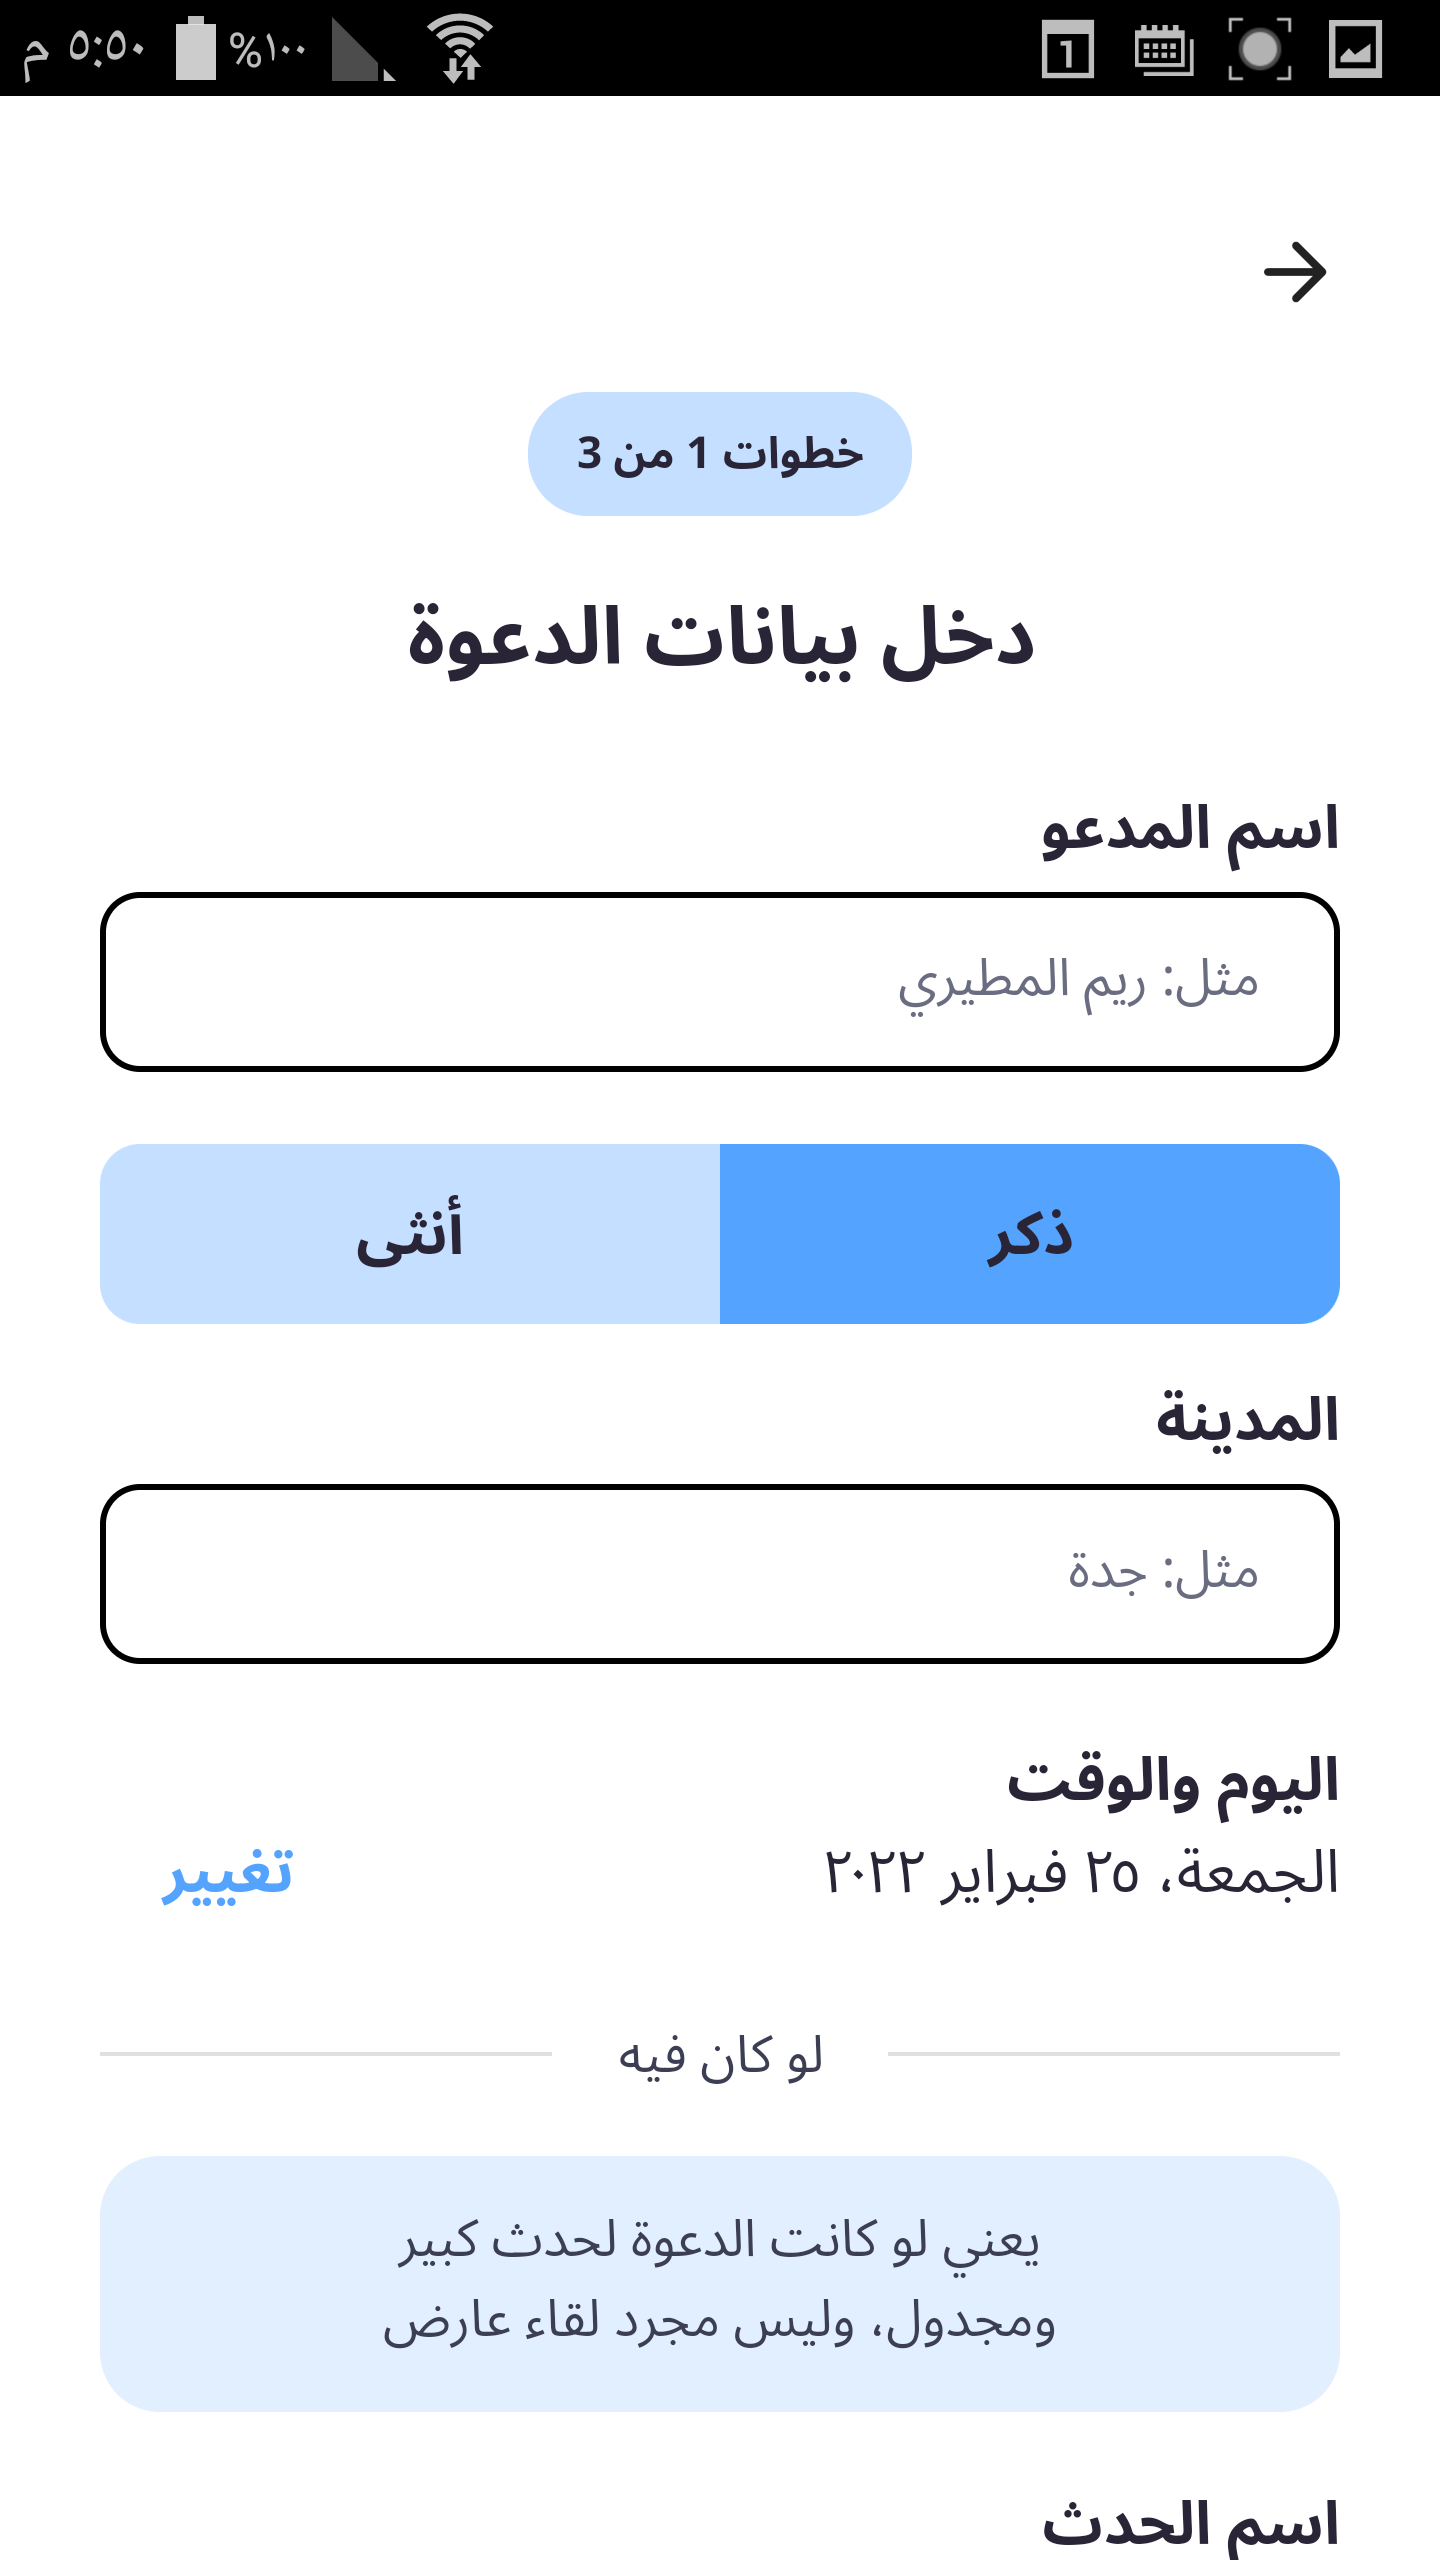
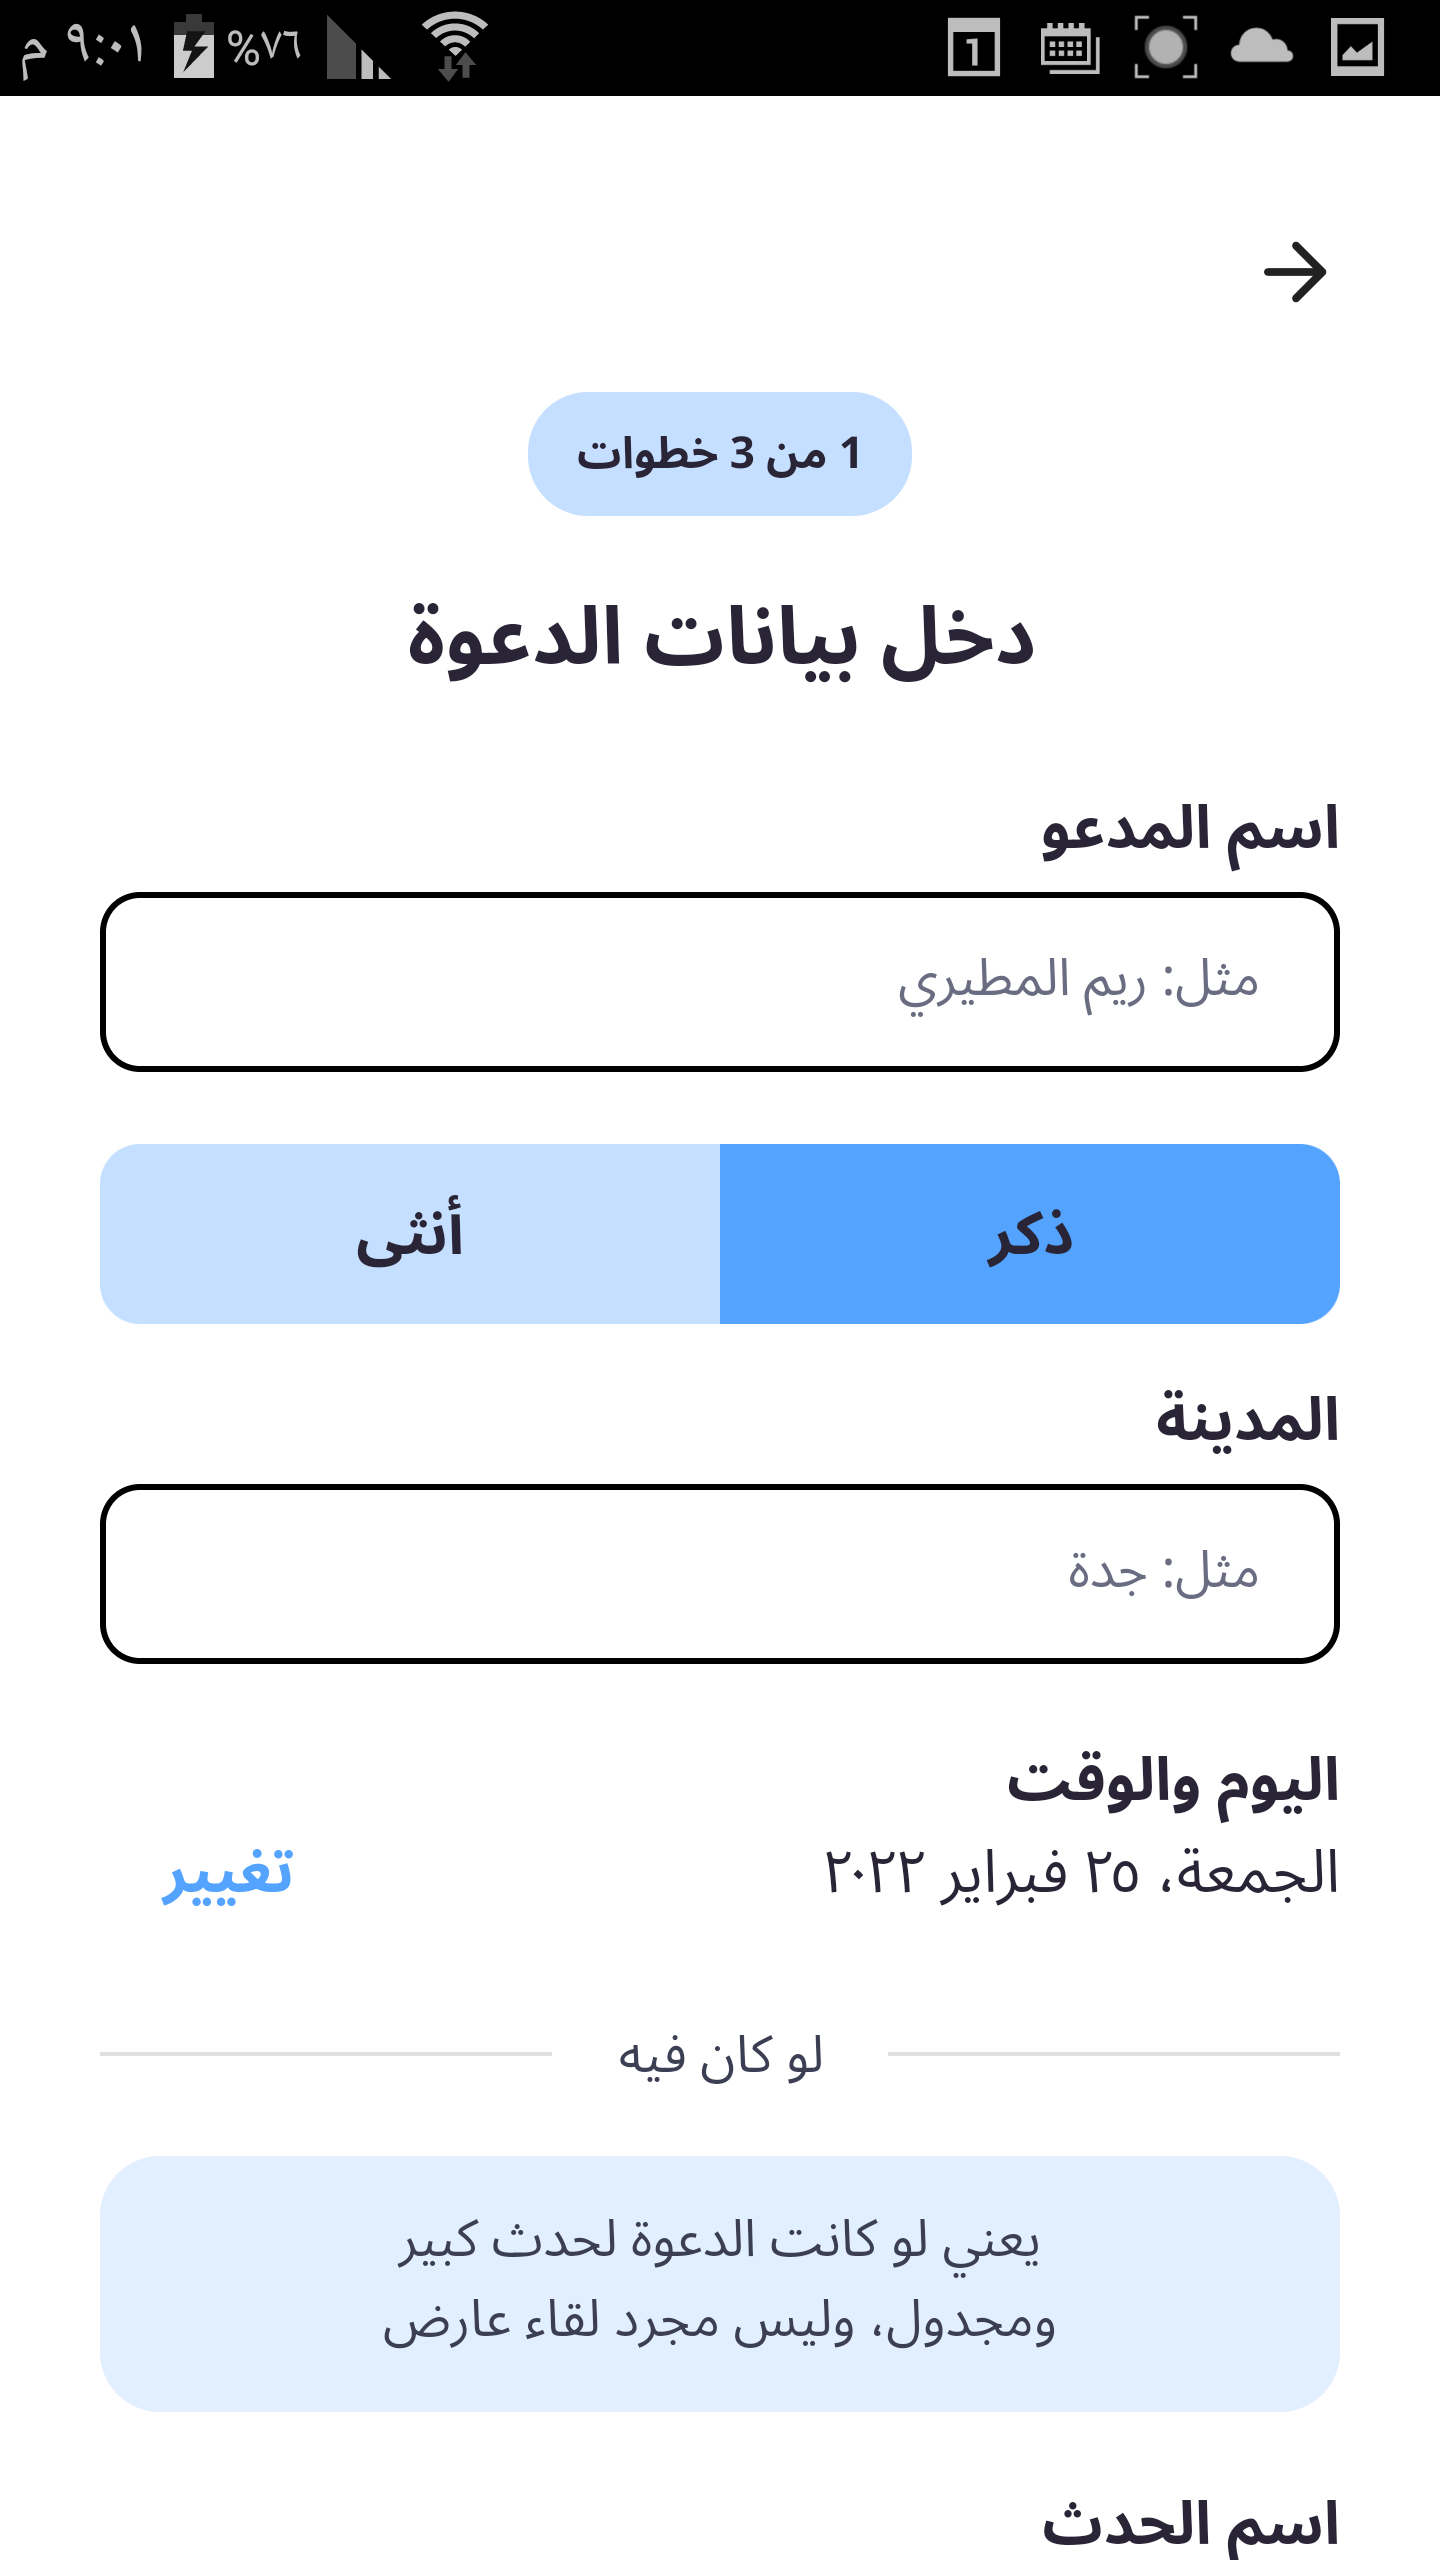
adding screenshots for all templates

diff --git a/lib/pages/preview_page.dart b/lib/pages/preview_page.dart
@@ -4,6 +4,10 @@ import 'package:invitation_generator/controllers/invitation_controller.dart';
 import 'package:invitation_generator/localization/localization_constants.dart';
 import 'package:invitation_generator/pages/form_page.dart';
 import 'package:invitation_generator/pages/home_page.dart';
+import 'package:invitation_generator/shared/app_colors.dart';
+import 'package:invitation_generator/shared/box_dec.dart';
+import 'package:invitation_generator/shared/constants.dart';
+import 'package:invitation_generator/shared/text_styles.dart';
 import 'package:invitation_generator/shared/ui_helpers.dart';
 import 'package:invitation_generator/utils/utils.dart';
 import 'package:invitation_generator/utils/widget_to_image.dart';
@@ -43,7 +47,31 @@ class PreviewPage extends StatelessWidget {
                                 getTr(context, 'preview_invitaion_and_share')!,
                             stepNum: 3,
                           ),
-                          sizedBox,
+                          const SizedBox(height: 2.0),
+                          Row(
+                            mainAxisAlignment: MainAxisAlignment.center,
+                            children: [
+                              Consumer(builder: (context, ref, child) {
+                                return Container(
+                                  padding: const EdgeInsets.symmetric(
+                                      vertical: 1.0, horizontal: 10.0),
+                                  child: Text(
+                                    ref.read(inviIdProvider),
+                                    style: kCaption2Style,
+                                    textAlign: TextAlign.center,
+                                  ),
+                                  decoration: BoxDecoration(
+                                    borderRadius: kAppBorderRadius,
+                                    color: getThemeColor(
+                                            ref.read(inviThemeProvider))
+                                        .shade800
+                                        .withOpacity(0.5),
+                                  ),
+                                );
+                              }),
+                            ],
+                          ),
+                          const SizedBox(height: 10.0),
                           WidgetToImage(builder: (capKey) {
                             _globalKey = capKey;
                             return const InvitationTemplate();

diff --git a/lib/widgets/app_title.dart b/lib/widgets/app_title.dart
@@ -24,7 +24,7 @@ class AppTitle extends StatelessWidget {
             padding:
                 const EdgeInsets.symmetric(vertical: 4.0, horizontal: 12.0),
             child: Text(
-              '${getTr(context, 'steps')} $stepNum ${getTr(context, 'from')} $appStepsNum',
+              '$stepNum ${getTr(context, 'from')} $appStepsNum ${getTr(context, 'steps')}',
               style: kCaption2Style,
             ),
             decoration: BoxDecoration(
